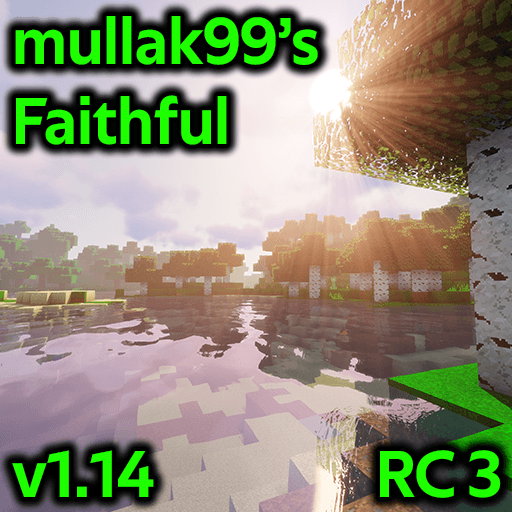
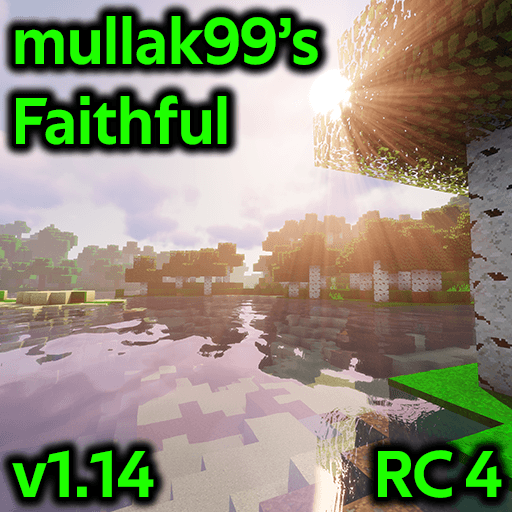
Fixed Jukebox item model
- Fixed Jukebox item model

Changed region(s): [[0.7188, 0.8438, 1.0, 1.0]]

diff --git a/README.md b/README.md
@@ -1,6 +1,6 @@
 # mullak99sFaithful
 
-**Current Branch Version:** _v1.14-RC3_  
+**Current Branch Version:** _v1.14-RC4_  
 
 ## Branch Breakdown
 
